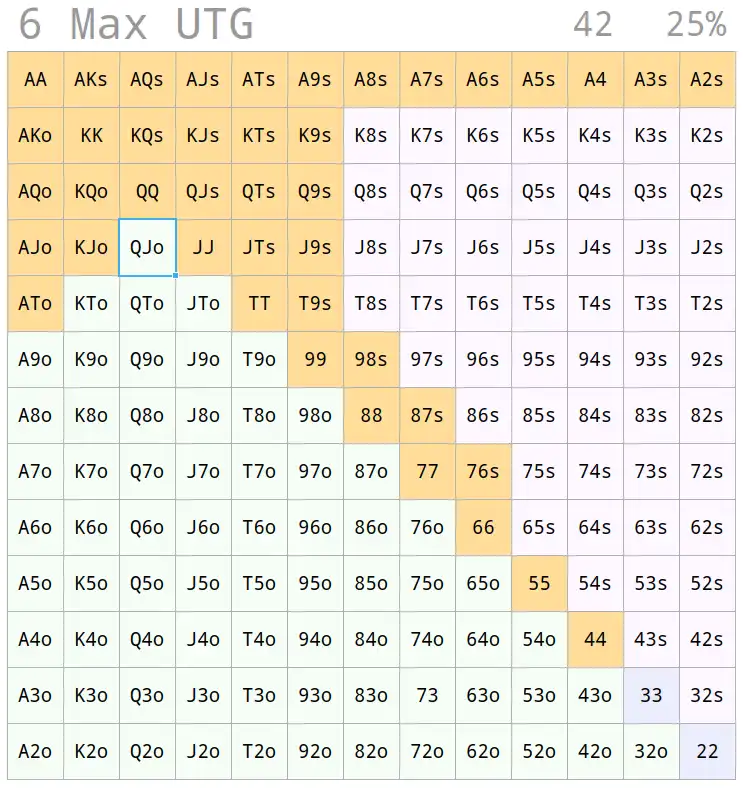
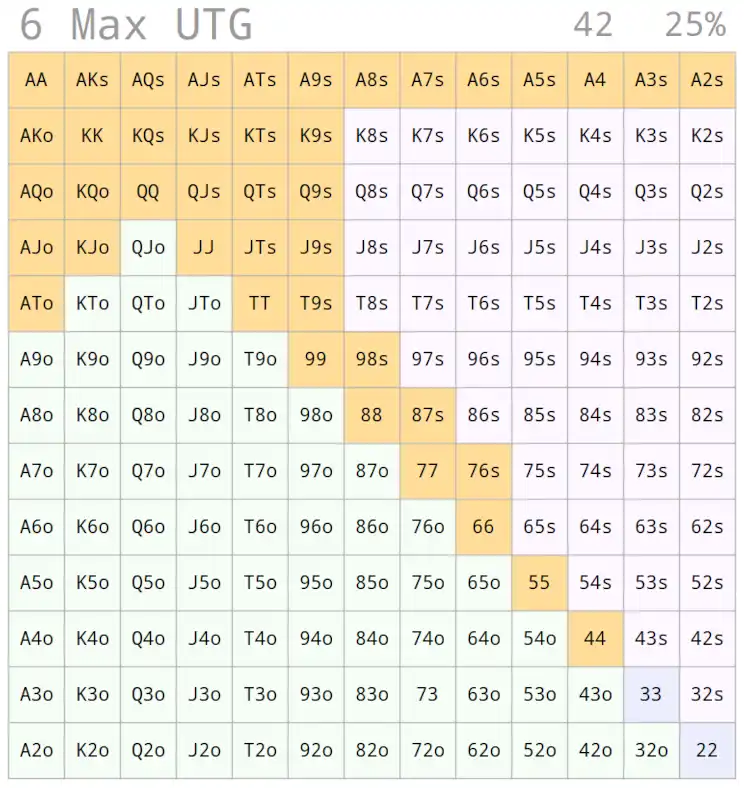
01-01-2025 09:44

diff --git a/zones/de-phonetik/pages/18.html b/zones/de-phonetik/pages/18.html
@@ -38,7 +38,7 @@
 <h2>ʊ</h2>
 
 <blockquote>
-рот - откры чуть больще<br>
+рот - открыт чуть больще<br>
 </blockquote>
 
 <div class='clOverflow'>